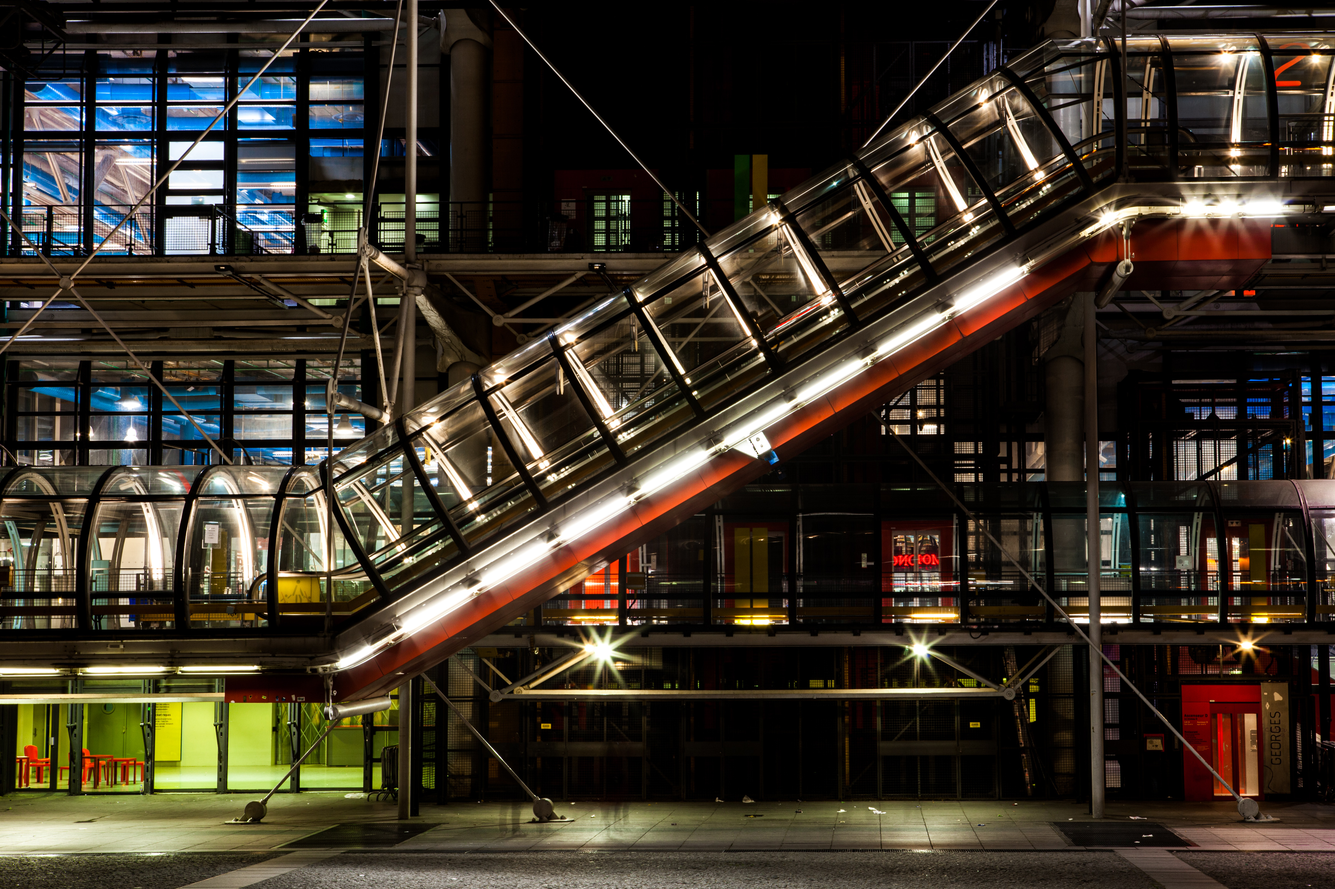
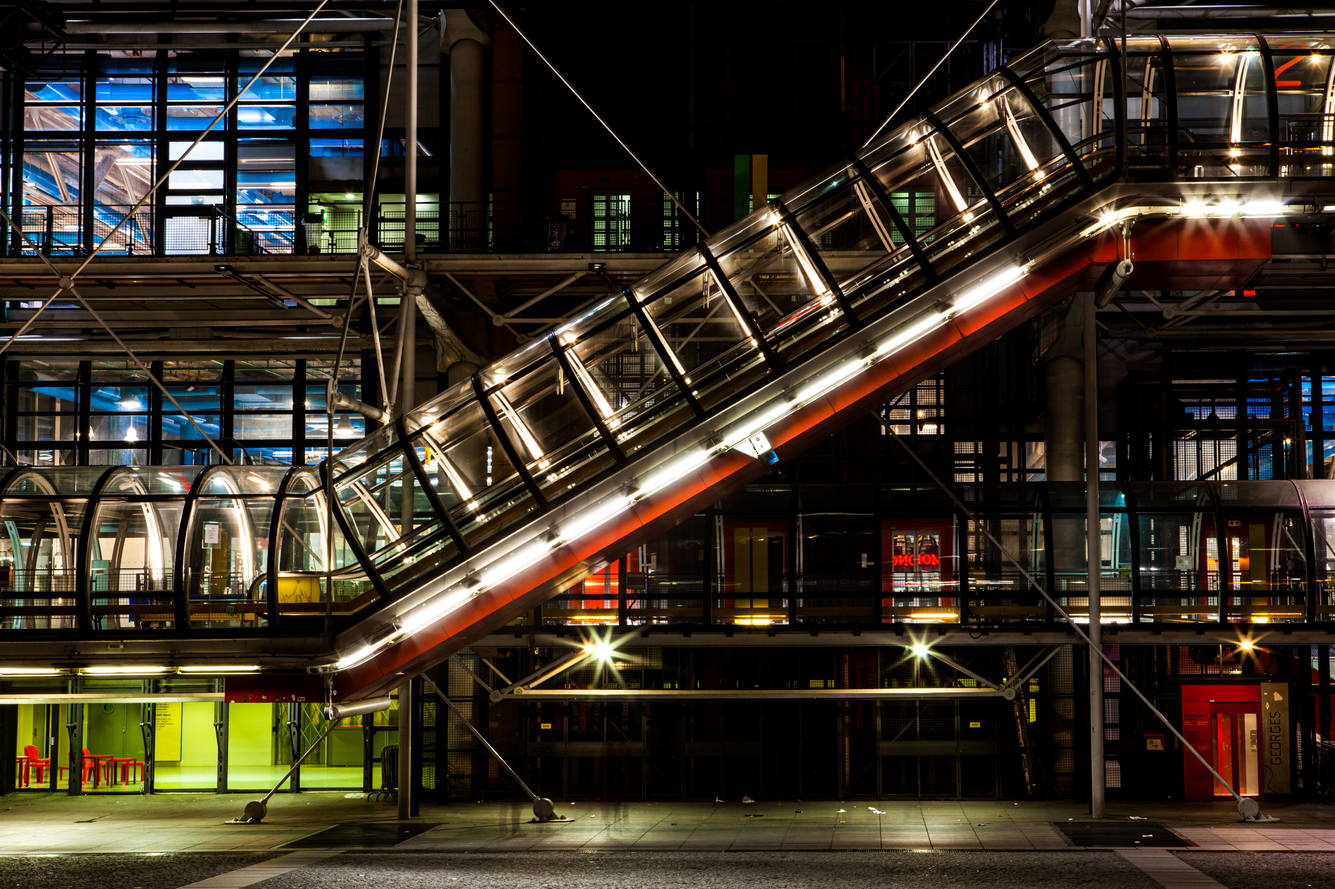
Enhance diffing algorithm

Changed region(s): [[0.0, 0.7715, 0.2803, 0.895], [0.6851, 0.679, 0.7163, 0.7098], [0.436, 0.6481, 0.4671, 0.679]]

diff --git a/_scripts/sync-photos.js b/_scripts/sync-photos.js
@@ -363,7 +363,7 @@ SYNC ${photo}`);
             newPhotoBuffer.info.width,
             newPhotoBuffer.info.height,
             {
-              threshold: 0.01,
+              threshold: 0.1,
             }
           );
 
